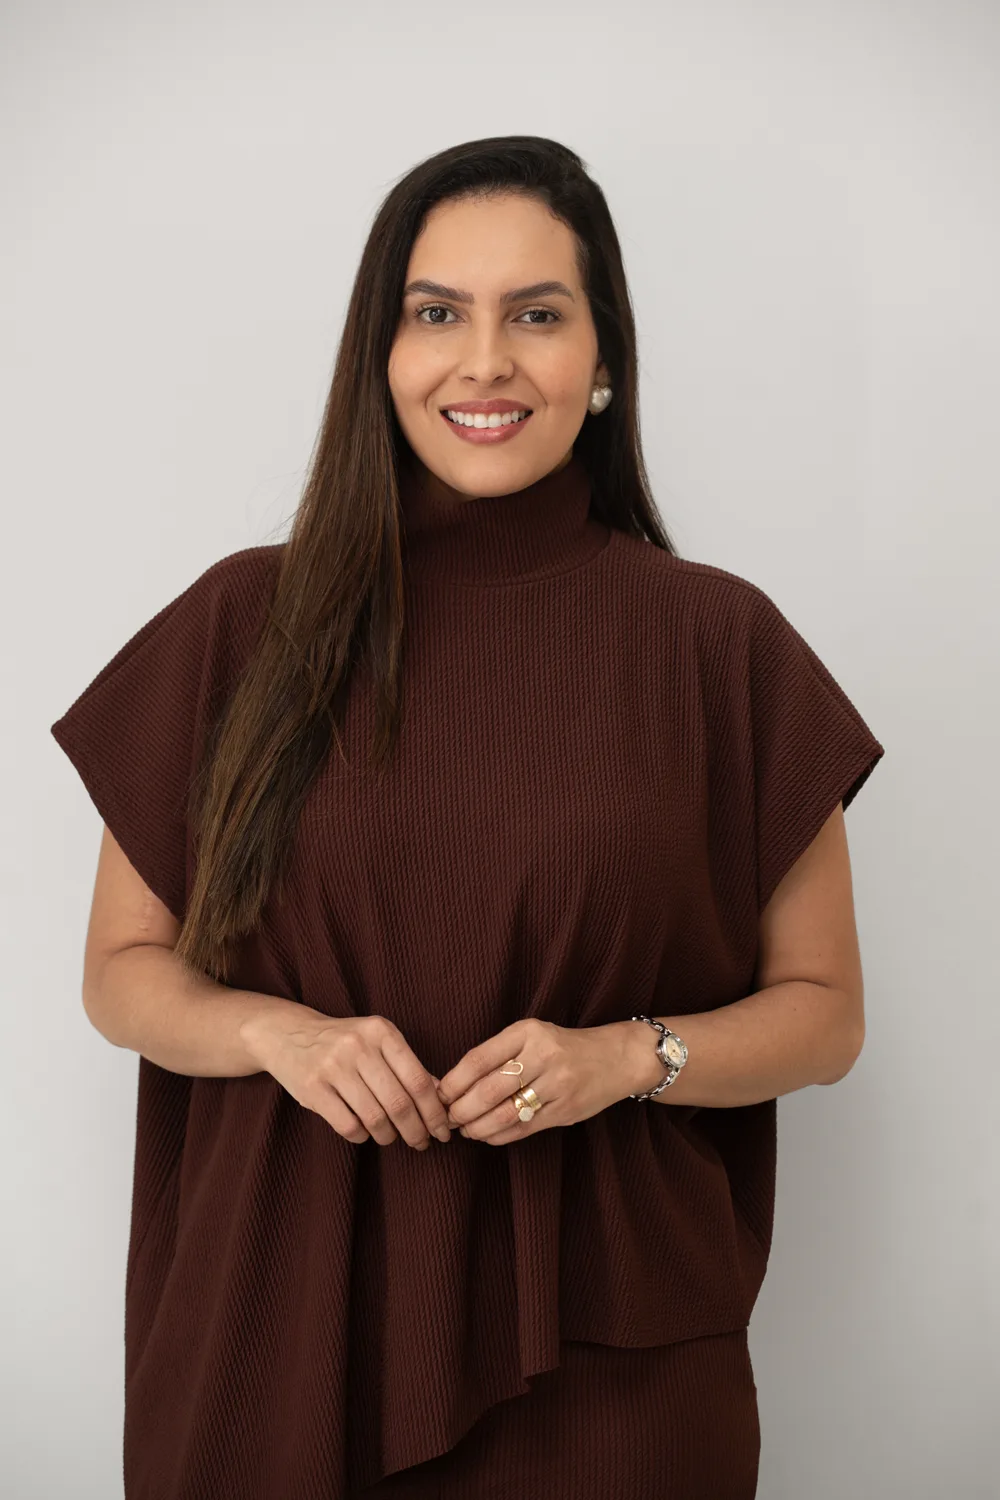
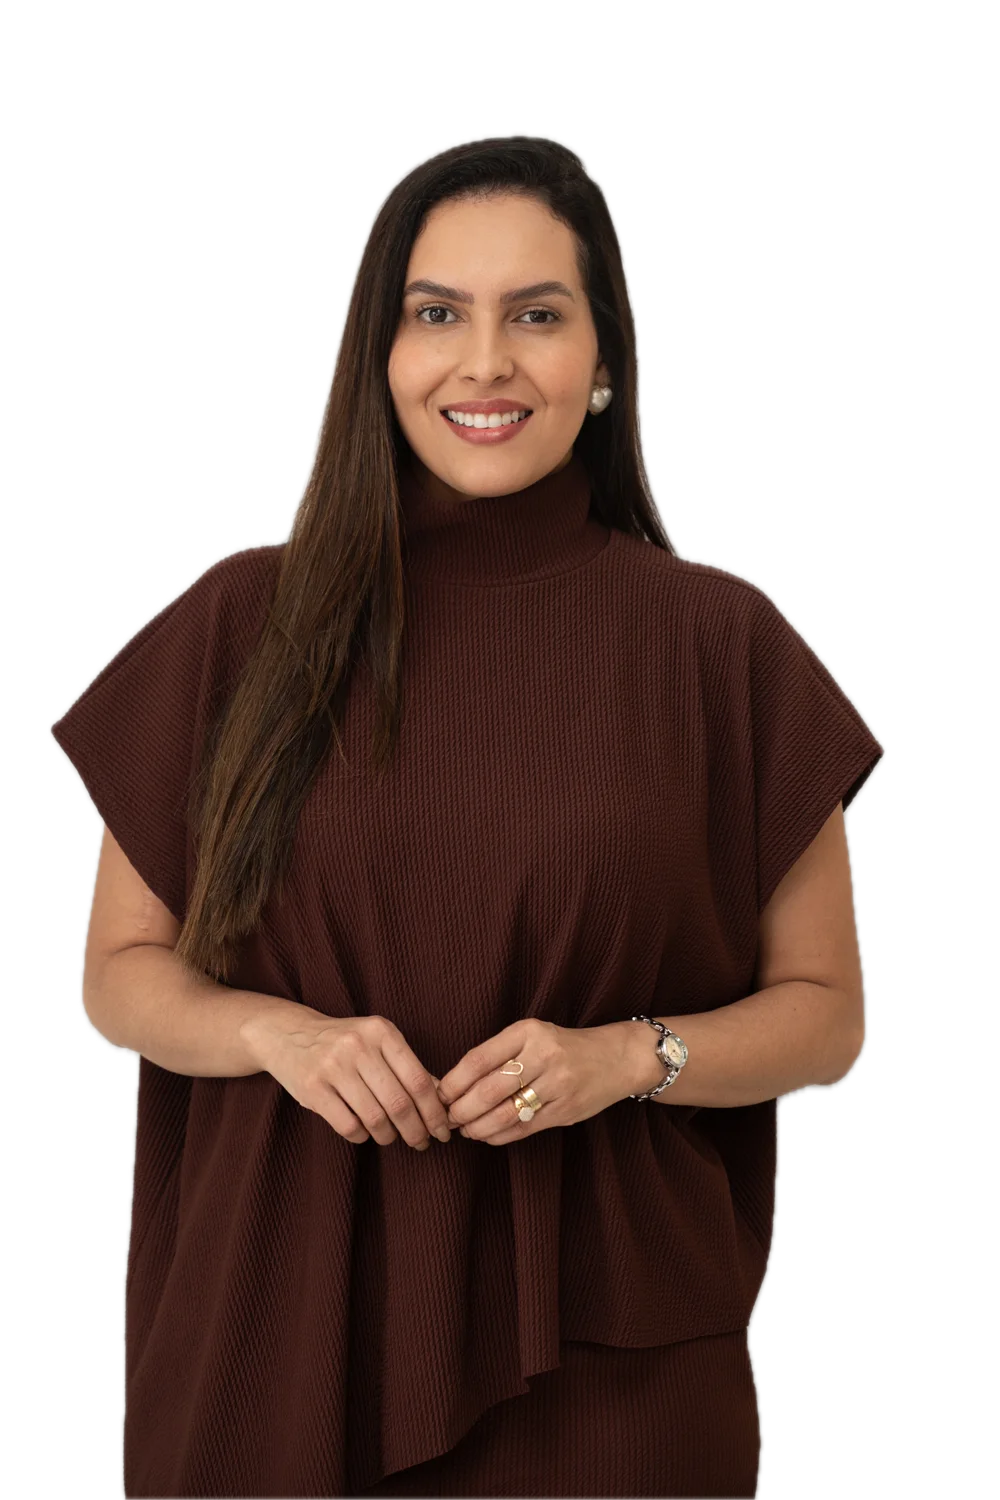
Retrato da Mirelle sem fundo, com arco em degradê e movimento

diff --git a/estilo.css b/estilo.css
@@ -287,9 +287,30 @@ h2, h3 { hyphens: manual; }
   }
 }
 
-/* Sobre: retrato real da Mirelle em arco */
+/* Sobre: retrato da Mirelle recortado, sobre arco em degradê, com movimento */
 .secao-grade--sobre { align-items: center; gap: clamp(32px, 6vw, 96px); grid-template-columns: minmax(0, 560px) minmax(0, 1fr); }
-.retrato { position: relative; margin: 0; justify-self: center; width: min(100%, 440px); }
-.retrato::before { content: ""; position: absolute; inset: -14px 14px 14px -14px; border: 1px solid var(--areia); border-radius: 999px 999px 24px 24px; z-index: -1; }
-.retrato img { display: block; width: 100%; height: auto; aspect-ratio: 2 / 3; object-fit: cover; object-position: 50% 20%; border-radius: 999px 999px 24px 24px; box-shadow: 0 30px 60px -30px rgb(84 50 30 / .35); }
-@media (max-width: 860px) { .secao-grade--sobre { grid-template-columns: minmax(0, 1fr); gap: 36px; } .retrato { width: min(82%, 360px); order: -1; } }
+.retrato { --sobe: 0px; position: relative; margin: 0; justify-self: center; width: min(100%, 460px); aspect-ratio: 2 / 3; isolation: isolate; }
+/* arco: degradê de contraste (areia/terracota no alto, dissolvendo no creme embaixo) */
+.retrato-arco {
+  position: absolute; z-index: -1; left: 6%; right: 6%; top: 12%; bottom: 0;
+  border-radius: 999px 999px 0 0;
+  background:
+    radial-gradient(60% 45% at 50% 22%, rgb(255 246 230 / .75), transparent 70%),
+    linear-gradient(to bottom, color-mix(in srgb, var(--areia) 78%, var(--acento)) 0%, var(--areia) 38%, color-mix(in srgb, var(--areia) 35%, var(--fundo)) 72%, var(--fundo) 100%);
+  -webkit-mask-image: linear-gradient(to bottom, #000 70%, transparent);
+          mask-image: linear-gradient(to bottom, #000 70%, transparent);
+  transform: translateY(calc(var(--sobe) * -.4));
+  animation: respira 9s ease-in-out infinite;
+}
+.retrato-arco::after { content: ""; position: absolute; inset: -14px; border: 1px solid color-mix(in srgb, var(--areia) 70%, transparent); border-radius: inherit; border-bottom: 0; }
+.retrato img {
+  position: absolute; inset: 0; width: 100%; height: 100%; object-fit: contain; object-position: 50% 100%;
+  filter: saturate(.9) contrast(.93) brightness(1.03) sepia(.06) drop-shadow(0 24px 30px rgb(84 50 30 / .18));
+  -webkit-mask-image: linear-gradient(to bottom, #000 72%, transparent 98%);
+          mask-image: linear-gradient(to bottom, #000 72%, transparent 98%);
+  transform: translateY(var(--sobe));
+  animation: flutua 8s ease-in-out infinite;
+}
+@keyframes flutua { 0%, 100% { translate: 0 0; } 50% { translate: 0 -10px; } }
+@keyframes respira { 0%, 100% { opacity: .92; scale: 1; } 50% { opacity: 1; scale: 1.025; } }
+@media (max-width: 860px) { .secao-grade--sobre { grid-template-columns: minmax(0, 1fr); gap: 28px; } .retrato { width: min(86%, 360px); order: -1; } }

diff --git a/app.js b/app.js
@@ -191,3 +191,18 @@
     });
   }
 })();
+
+// Retrato da seção Sobre: parallax leve na rolagem
+(() => {
+  const r = document.querySelector('.retrato');
+  if (!r || matchMedia('(prefers-reduced-motion: reduce)').matches) return;
+  let pendente = false;
+  const mover = () => {
+    pendente = false;
+    const b = r.getBoundingClientRect();
+    const p = (b.top + b.height / 2 - innerHeight / 2) / innerHeight; // -1..1
+    r.style.setProperty('--sobe', `${Math.max(-1, Math.min(1, p)) * 28}px`);
+  };
+  addEventListener('scroll', () => { if (!pendente) { pendente = true; requestAnimationFrame(mover); } }, { passive: true });
+  mover();
+})();

diff --git a/index.html b/index.html
@@ -71,6 +71,7 @@
         <p class="assina">Porque o verdadeiro cuidado acontece antes do espelho.</p>
       </div>
       <figure class="retrato revelar">
+        <span class="retrato-arco" aria-hidden="true"></span>
         <img src="assets/img/mirelle.webp" width="1000" height="1500" alt="Mirelle Neris, sorrindo, de blusa marrom, com as mãos unidas à frente do corpo" loading="lazy">
       </figure>
     </div>
